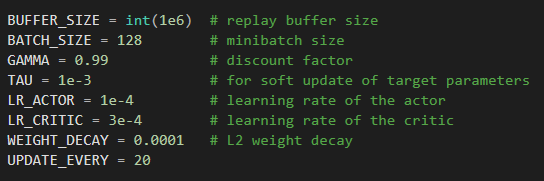
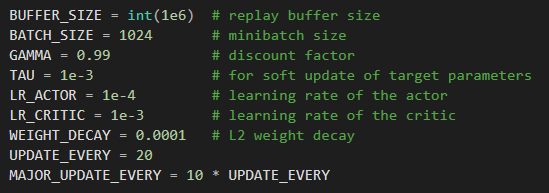
Updated Report

Changed region(s): [[0.0, 0.0276, 0.9688, 0.9669]]

diff --git a/ContinuousControl/Report.md b/ContinuousControl/Report.md
@@ -1,8 +1,5 @@
-# Introduction
-I've gone through the DDPG paper a few times and tried a variety of things but haven't been able to get the required score. So here's what I've done so far, hopefully I can get some feedback on what I'm overlooking.
-
 # Project Details
-I started this project with the Bipedal DDPG code from https://github.com/udacity/deep-reinforcement-learning/tree/master/ddpg-bipedal. The Actor NN is fully connected with 33 inputs describing state information, a hidden layer with 256 neurons and an output layer with 4 neurons, the rectified linear unit is used internally and hyperbolic tangent is used on the output. The Critic Network has three hidden layers of size 256, 256 and 128, it takes state information as input and concatenates that with the actions at the second hidden layer, leaky rectified linear units are used throughout. I added batch normalization to the input of each network and performed a minor update every 20 steps and a major update 200 with a batch size of 1024. The noise function was replaced with a Gaussian distribution centered at 0 with a standard deviation of 1. The additional hyperparamters are shown below.
+I started this project with the Bipedal DDPG code from https://github.com/udacity/deep-reinforcement-learning/tree/master/ddpg-bipedal. The Actor NN is fully connected with 33 inputs describing state information, a hidden layer with 256 neurons and an output layer with 4 neurons, the rectified linear unit is used internally and hyperbolic tangent is used on the output. The Critic Network has three hidden layers of size 256, 256 and 128, it takes state information as input and concatenates that with the actions at the second hidden layer, leaky rectified linear units are used throughout. I added batch normalization to the input of each network and performed a minor update every 20 steps and a major update every 200 with a batch size of 1024. The noise function was replaced with a Gaussian distribution centered at 0 with a standard deviation of 1. The additional hyperparamters are shown below. This environment was solved at roughly the 225th episode.
 
 ![Hyperparameters](images/hyper.png)
 
@@ -11,6 +8,4 @@ I started this project with the Bipedal DDPG code from https://github.com/udacit
 ![Training Profile](images/training.png)
 
 # Improvements
-I'll update this when I get better results.
-Shrink ball
-Jitter
+It seems like convergence would improve if the rewards from the environment took into account distance from the ball and/or trajectory of the arm. Also noticed some jitter once the environment was solved that would be undesirable in a real world device but could possibly be fine tuned out by continuing training but deducting a small amount from the environment's rewards based on the amount of energy it would take to move a physical arm encouraging the network to learn efficiency of motion. Using multipe agents as suggested in the course would provide more diverse training data and accelerate convergence also the TNPG and TRPO variations described in the "Benchmarking Deep Reinforcement Learning for Continuous Control" paper could help with this environment. 
